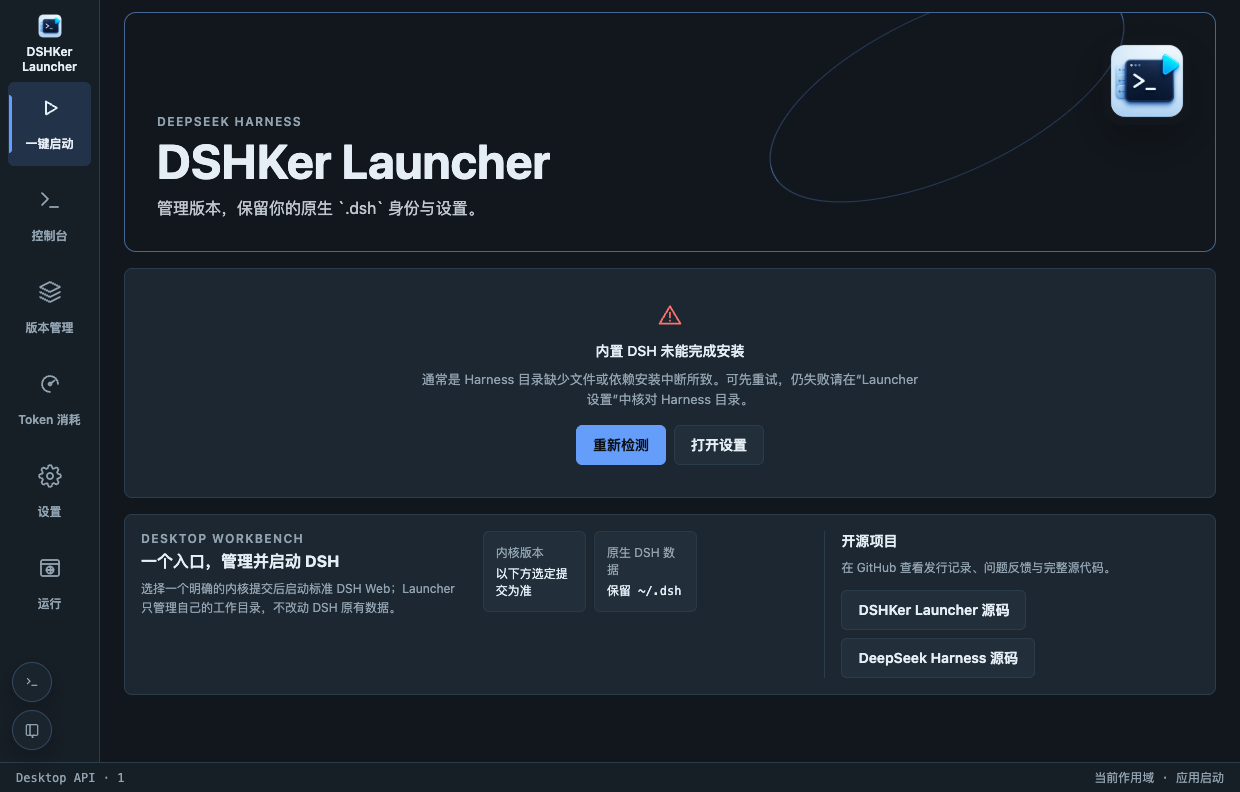
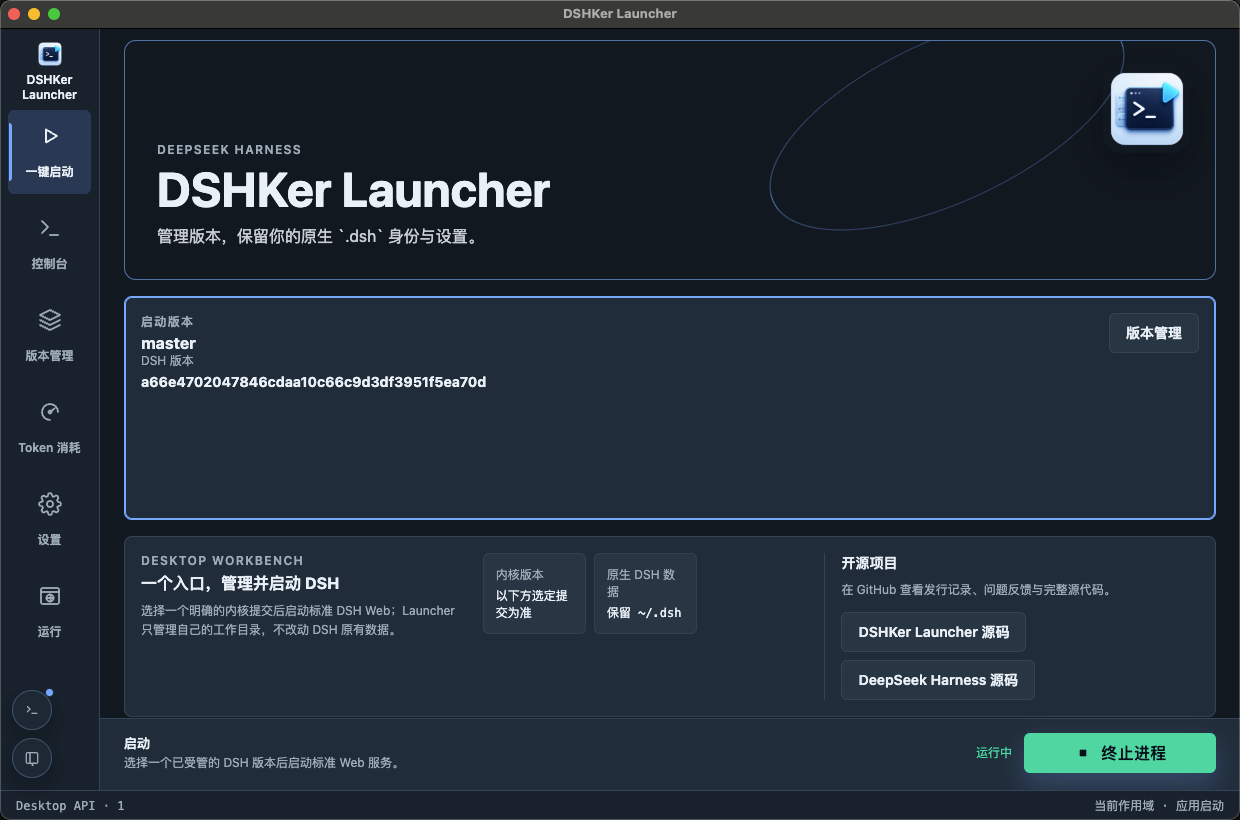
docs: replace product screenshots with user captures

diff --git a/docs/screenshots.md b/docs/screenshots.md
@@ -1,8 +1,8 @@
 # Product screenshots / 产品截图
 
-These images are captured from the v0.1.10 macOS packaged-app smoke run. They are not browser or development-server screenshots. The smoke environment intentionally starts without a user-managed Harness checkout, so the Launch and Version management pages demonstrate their first-run and empty states.
+These images show the current DSHKer Launcher interface. They are supplied from a real macOS session rather than a browser or development server, and include a prepared Harness checkout, running DSH Web process, installed extensions, plugin catalog data, and session usage data.
 
-以下图片由 v0.1.10 macOS 安装包的烟测直接截取，不是浏览器或开发服务器截图。烟测环境不会读取用户的 Harness 目录，因此“启动”和“版本管理”页面展示的是首启与空状态。
+以下图片来自当前 DSHKer Launcher 的真实 macOS 使用场景，不是浏览器或开发服务器截图；截图包含已准备的 Harness 内核、运行中的 DSH Web、已安装扩展、插件目录与会话 Token 数据。
 
 ## Launch / 启动
 
@@ -12,6 +12,14 @@ These images are captured from the v0.1.10 macOS packaged-app smoke run. They ar
 
 ![Version management](assets/screenshots/versions.png)
 
+## Installed extensions / 已安装扩展
+
+![Installed extensions](assets/screenshots/extensions.png)
+
+## Plugin catalog / 安装新扩展
+
+![Plugin catalog](assets/screenshots/plugins.png)
+
 ## Console / 控制台
 
 ![Console](assets/screenshots/controller.png)
@@ -19,6 +27,10 @@ These images are captured from the v0.1.10 macOS packaged-app smoke run. They ar
 ## Token usage / Token 消耗
 
 ![Token usage](assets/screenshots/usage.png)
+
+## Token statistics / Token 统计
+
+![Token statistics](assets/screenshots/usage-statistics.png)
 
 ## Settings / 设置
 
